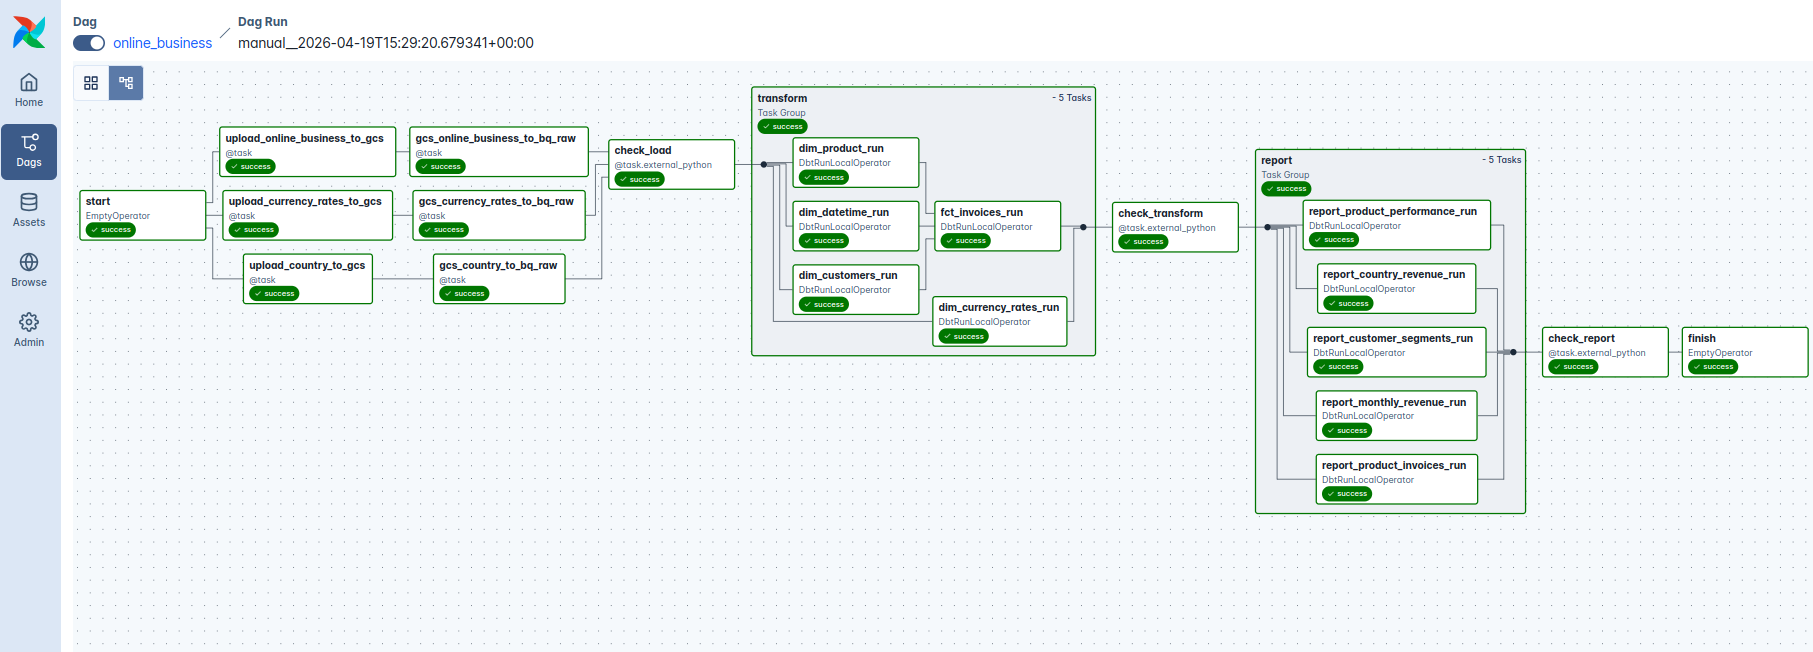
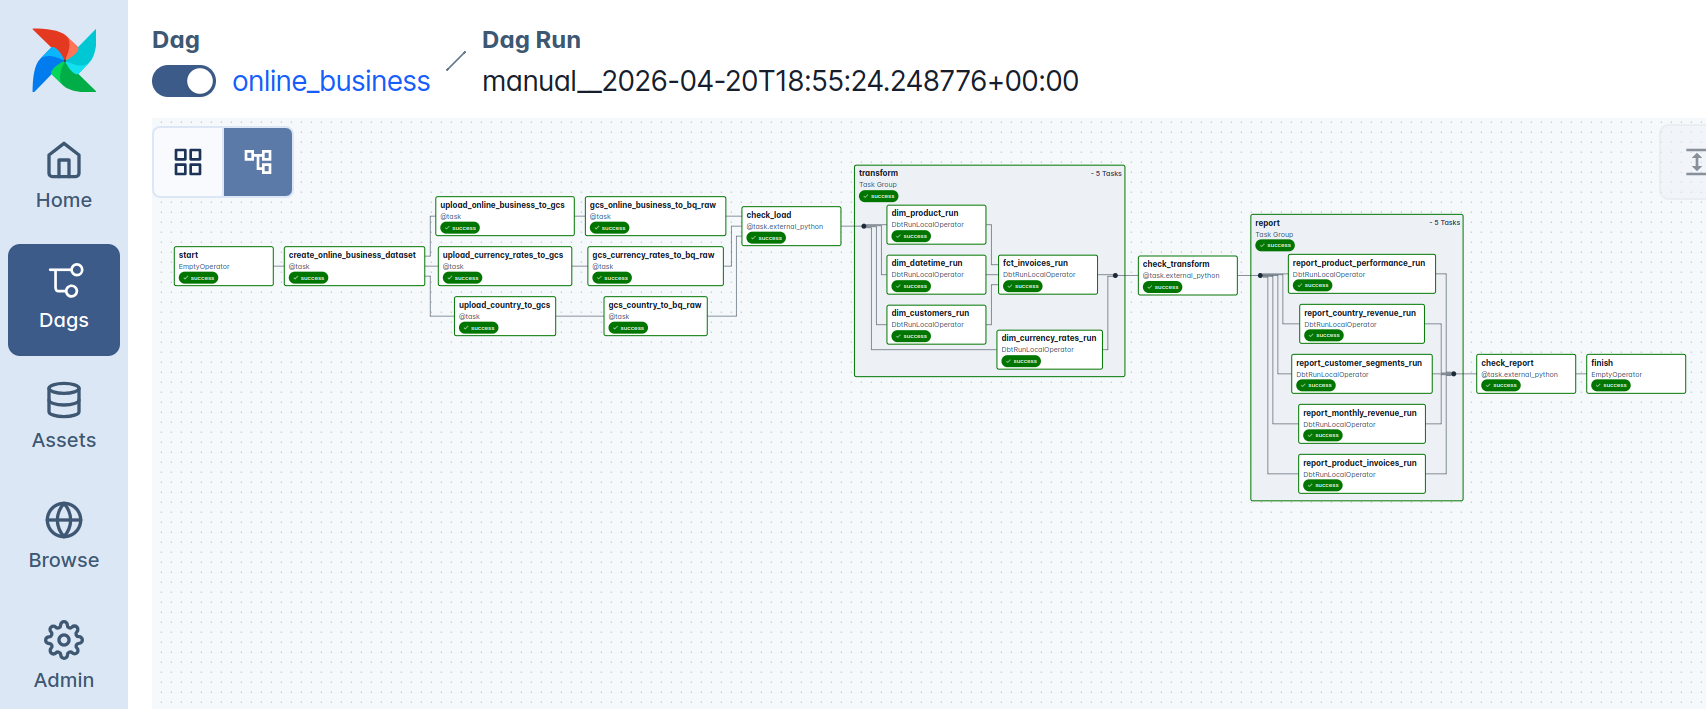
updated v3

Changed region(s): [[0.0, 0.0, 1.0, 1.0], [0.9941, 0.184, 1.0, 0.2454]]

diff --git a/dags/online_business.py b/dags/online_business.py
@@ -197,6 +197,7 @@ def online_business():
     start = EmptyOperator(task_id='start')
     finish = EmptyOperator(task_id='finish')
 
+    create_ds = create_online_business_dataset()
     upload_ob = upload_online_business_to_gcs()
     upload_cr = upload_currency_rates_to_gcs()
     upload_country = upload_country_to_gcs()
@@ -205,7 +206,7 @@ def online_business():
     raw_country = gcs_country_to_bq_raw()
     check = check_load()
 
-    start >> [upload_ob, upload_cr, upload_country]
+    start >> create_ds >> [upload_ob, upload_cr, upload_country]
     upload_ob >> raw_ob
     upload_cr >> raw_cr
     upload_country >> raw_country

diff --git a/README.md b/README.md
@@ -1,6 +1,6 @@
 # Online Business Pipeline
 
-An online business operates across multiple countries and accumulates transactional invoice data in flat CSV files. The business has no centralised analytics capability — data stored locally in different files, unvalidated, and unavailable for reporting. The goal of this project is to build an end-to-end data pipeline that ingests raw business data, connect with currency rates, then transforms it into a dimensional model, validates data quality at each stage, and makes it available for business intelligence reporting in Google Data Studio.
+An online business operates across multiple countries and accumulates transactional invoice data in flat CSV files. The business has no centralised analytics capability — data stored locally in different files, unvalidated, and unavailable for reporting. The goal of this project is to build an end-to-end batch data pipeline that ingests raw business data, connect with currency rates, coutries then transforms it into a dimensional model, validates data quality at each stage, and makes it available for business intelligence reporting in Google Data Studio.
 
 
 ## Problem Statement
@@ -48,19 +48,24 @@ The pipeline follows an **ELT** pattern: raw data is landed in a cloud data lake
 
 
 
-## Tech Stack
+## Technologies
 
 
-| Layer | Tool | Location |
+| Type | Tool | Location |
 |---|---|---|
+| Cloud | Google Cloud  | GCS, BQ. AIM |
 | Orchestration | Apache Airflow 3.x (Astronomer Runtime) | Docker / Astro CLI |
 | Infrastructure | Terraform | GCS bucket + BigQuery dataset |
-| Data Lake | Google Cloud Storage | `gs://obp-486617/raw/` |
-| Raw Load | BigQuery Load Jobs via `BigQueryHook` | `online_business.*_raw` tables |
-| Data Quality | Soda Core (`soda-core-bigquery`) | `include/soda/checks/` |
-| Transform | dbt Core 1.11 + Cosmos (`dbt-bigquery`) | `include/dbt/models/transform/` |
-| Report Models | dbt Core 1.11 + Cosmos | `include/dbt/models/report/` |
-| Visualisation | Google Data Studio | Connected to BigQuery report layer |
+
+| Batch processing | Python, Airflow DAG, | dags/ |
+
+| Data Modelling | dbt Core 1.11 + Cosmos | include/dbt/models/ |
+
+| Data Warehouse | Google BigQuery | include/dbt/models/ |
+
+| Data Quality testing | Soda Core (`soda-core-bigquery`) | `include/soda/ |
+
+| Visualisation & reporting| Google Data Studio | Connected to BigQuery report layer |
 
 
 
@@ -317,7 +322,7 @@ Circle colour intensity represents Total Revenue USD (up to $11,672,540)
 The large dark bubble sitting over Western Europe is UK. The smaller, lighter bubbles scattered across Europe, North America, Asia and Australia represent the long-tail markets from the bar chart. The map legend confirms the largest revenue bubble reaches $11,672,540.
 
 
-
+[Online Business Dashboard](https://datastudio.google.com/u/0/reporting/f018e860-96d8-444b-8aa9-3bad8caa32b7/page/p_mmdzr03u2d)
 
 
 
@@ -456,7 +461,7 @@ http://localhost:8080/dags/online_business/
 
 - Add report_country_revenue, report_customer_segments, report_monthly_revenue, and report_product_performance tables
 
-- Build the two-page [dashboard](https://datastudio.google.com/s/uBT4DbZvENc)
+- Build the two-page dashboard
 
 
 
